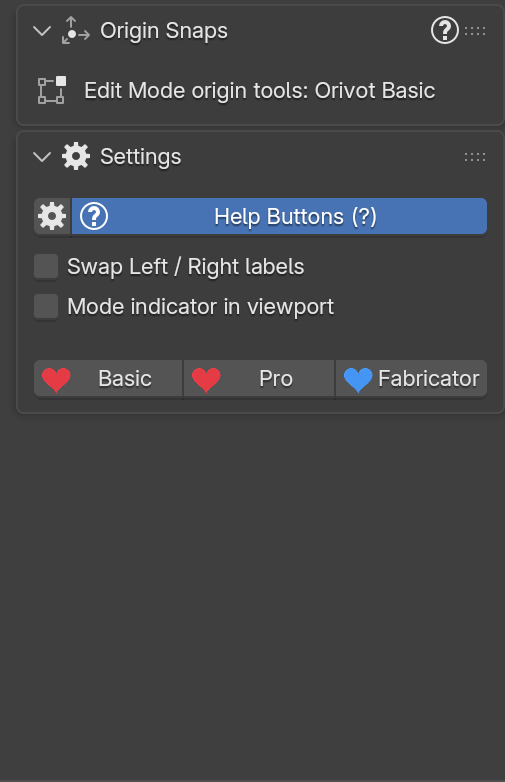
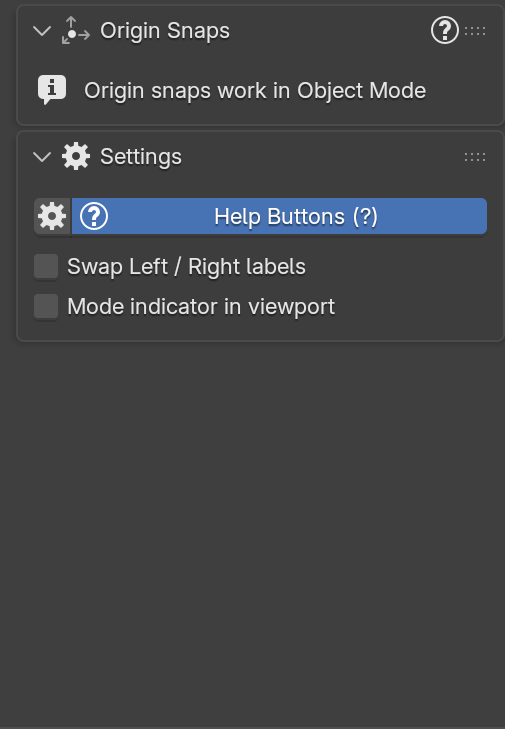
README: current Free 4.3.5 sidebar (Front = -Y, Ground) instead of the old pre-4.3 screenshot

diff --git a/README.md b/README.md
@@ -1,5 +1,5 @@
 <img width="1709" height="983" alt="image" src="https://github.com/user-attachments/assets/e805a143-33bf-4ab1-a719-47634d524f67" />
-<img width="307" height="1259" alt="Orivot Free UI" src="https://github.com/user-attachments/assets/1f48b48d-012e-4214-bc7f-f0a3a483c750" />
+<img width="307" alt="Orivot Free UI" src="docs/ui/free_object.png" />
 
 # Orivot Free
 
